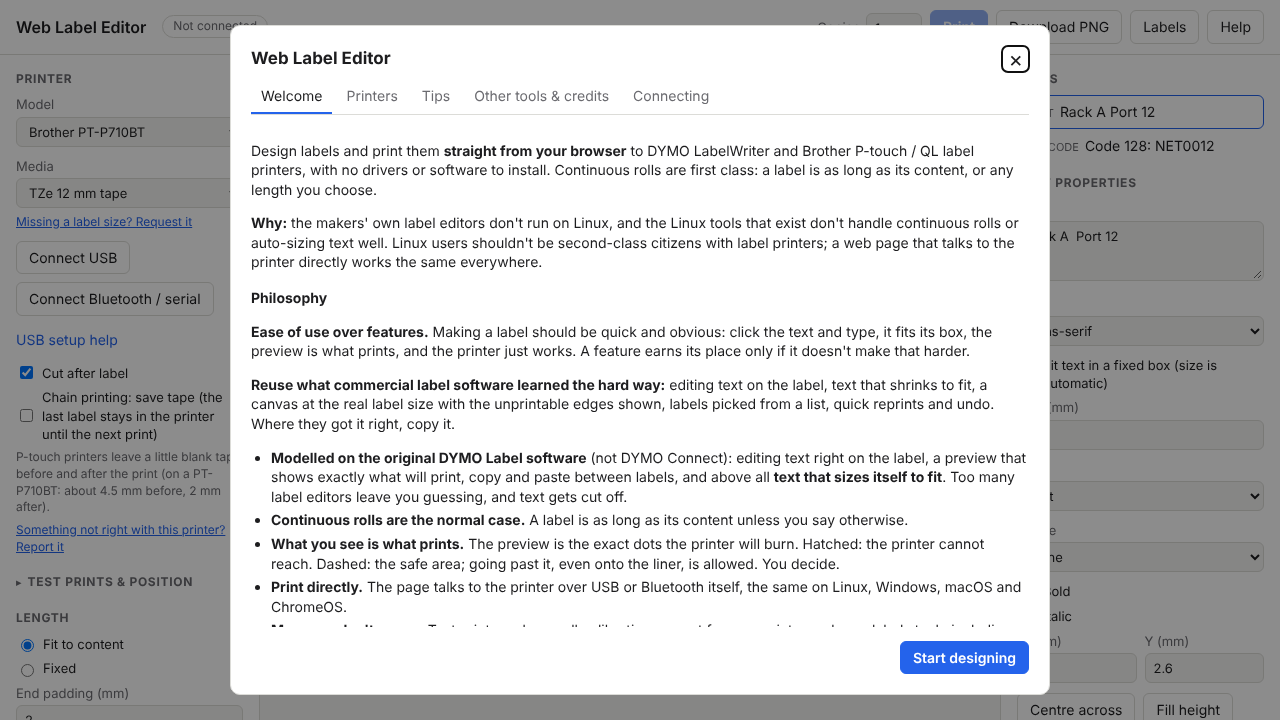
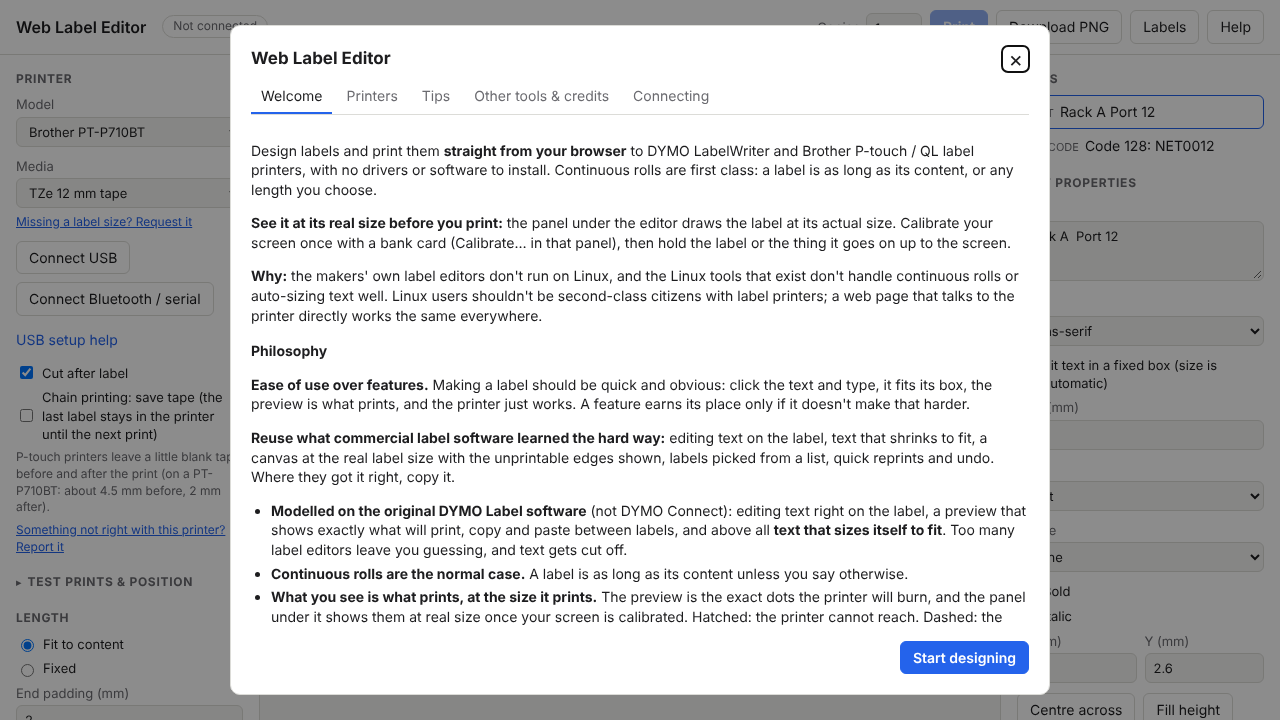
Advertise the actual-size view; fix the screenshot script's race
- README opening, Who it's for, the philosophy and the welcome page now
  call out seeing the label at its real size (calibrated with a bank
  card), which, as far as we know, the other editors listed don't do.
- scripts/screenshots.mjs sets browser storage from a plain page on the
  same origin before opening the app: the app saves its own design just
  after it starts and was overwriting the example designs, so the
  screenshots showed the default label. Screenshots regenerated; the tape
  example is shorter so the roll stub fits.

Claude-Session: https://claude.ai/code/session_01YQFkThD3TEfZZoGyfdA6sY

Changed region(s): [[0.1875, 0.3056, 0.8125, 0.8861]]

diff --git a/src/about.js b/src/about.js
@@ -29,6 +29,9 @@ function welcome(go) {
     p('Design labels and print them ', b('straight from your browser'), ' to DYMO LabelWriter and Brother P-touch / QL '
       + 'label printers, with no drivers or software to install. Continuous rolls are first class: a label is as long as '
       + 'its content, or any length you choose.'),
+    p(b('See it at its real size before you print:'), ' the panel under the editor draws the label at its actual size. '
+      + 'Calibrate your screen once with a bank card (Calibrate… in that panel), then hold the label or the thing it goes '
+      + 'on up to the screen.'),
     p(b('Why:'), ' the makers\' own label editors don\'t run on Linux, and the Linux tools that exist don\'t handle '
       + 'continuous rolls or auto-sizing text well. Linux users shouldn\'t be second-class citizens with label printers; a '
       + 'web page that talks to the printer directly works the same everywhere.'),
@@ -44,8 +47,9 @@ function welcome(go) {
         + 'preview that shows exactly what will print, copy and paste between labels, and above all ',
       b('text that sizes itself to fit'), '. Too many label editors leave you guessing, and text gets cut off.'),
       li(b('Continuous rolls are the normal case.'), ' A label is as long as its content unless you say otherwise.'),
-      li(b('What you see is what prints.'), ' The preview is the exact dots the printer will burn. Hatched: the printer '
-        + 'cannot reach. Dashed: the safe area; going past it, even onto the liner, is allowed. You decide.'),
+      li(b('What you see is what prints, at the size it prints.'), ' The preview is the exact dots the printer will burn, '
+        + 'and the panel under it shows them at real size once your screen is calibrated. Hatched: the printer cannot '
+        + 'reach. Dashed: the safe area; going past it, even onto the liner, is allowed. You decide.'),
       li(b('Print directly.'), ' The page talks to the printer over USB or Bluetooth itself, the same on Linux, Windows, '
         + 'macOS and ChromeOS.'),
       li(b('Measure, don\'t guess.'), ' Test prints and per-roll calibration correct for your printer and your label '

diff --git a/src/others.js b/src/others.js
@@ -15,6 +15,7 @@ export const AIMS = [
   'You print on **continuous rolls or tape**, where the label is as long as its content.',
   'You want to **edit text right on the label** (click it and type) and have it **fit**: sized automatically to its box, never cut off, as in the original DYMO Label software.',
   'Position matters: the preview shows the **true printable area**, and test prints and **per-roll calibration** handle third-party label stock.',
+  'You want to **see the label at its real size** on screen before printing: calibrate once with a bank card, then hold the label or the thing it goes on up to the screen.',
 ];
 
 export const LOOK_ELSEWHERE = [
@@ -41,7 +42,8 @@ export function aimsMarkdown() {
 
 export const OTHER_TOOLS_INTRO = 'Low-level libraries for these printers are plentiful; label editors are rarer, '
   + 'mostly cover one brand, and often print through CUPS or a small server. This one aims at DYMO LabelWriter and '
-  + 'Brother printers together, continuous rolls, text edited in place that fits its box, and a true preview of the printable area; if one of '
+  + 'Brother printers together, continuous rolls, text edited in place that fits its box, and a true preview of the printable area, '
+  + 'also at real size; if one of '
   + 'these fits you better, use it. Developers: the libraries are where most of the protocol knowledge lives.';
 
 export const OTHER_TOOLS = [

diff --git a/README.md b/README.md
@@ -7,10 +7,16 @@ and sends them over **WebUSB** or **Web Serial** (Bluetooth). **Continuous
 rolls** are first class: a label is as long as its content, or any length you
 choose.
 
+**See it at its real size before you print.** Under the editor, the label
+is drawn at its actual size on your screen: calibrate once by holding a bank
+card against it, then hold the label, the cable or the jar lid up to the
+screen to check it fits. As far as we know, none of the other label editors
+listed under [Other tools](#other-tools) do this.
+
 **Open it: https://mofosyne.github.io/web-label-editor/** (Chrome, Edge or
 another Chromium browser on desktop to print; any browser to design)
 
-![Editing an address label for a DYMO LabelWriter, with fitted text and a QR code](docs/screenshots/editor-dymo.png)
+![Editing an address label for a DYMO LabelWriter, with fitted text and a QR code, and the same label at its real size underneath](docs/screenshots/editor-dymo.png)
 
 ## Who it's for
 
@@ -21,6 +27,7 @@ This editor is for you if:
 - You print on **continuous rolls or tape**, where the label is as long as its content.
 - You want to **edit text right on the label** (click it and type) and have it **fit**: sized automatically to its box, never cut off, as in the original DYMO Label software.
 - Position matters: the preview shows the **true printable area**, and test prints and **per-roll calibration** handle third-party label stock.
+- You want to **see the label at its real size** on screen before printing: calibrate once with a bank card, then hold the label or the thing it goes on up to the screen.
 
 Another tool may suit you better if:
 
@@ -78,8 +85,9 @@ right, copy it; don't make users discover the same problems again.
 - **Continuous rolls are the normal case.** A label is as long as its
   content unless you say otherwise; fixed sizes and die-cut labels are the
   special case, not the other way round.
-- **What you see is what prints.** The preview is the exact dots the printer
-  will burn, from the same code that prints. It shows where the printer
+- **What you see is what prints, at the size it prints.** The preview is the
+  exact dots the printer will burn, from the same code that prints, and a
+  calibrated panel shows them at their real size. It shows where the printer
   cannot reach (hatched) and the maker's safe area (dashed); going past the
   safe area, even onto the liner, is allowed on purpose. The editor tells
   you what will happen and leaves the call to you.
@@ -576,7 +584,7 @@ deploys `main` to GitHub Pages.
 ## Other tools
 
 <!-- others:start: generated by `npm run docs` from src/others.js; do not edit by hand -->
-Low-level libraries for these printers are plentiful; label editors are rarer, mostly cover one brand, and often print through CUPS or a small server. This one aims at DYMO LabelWriter and Brother printers together, continuous rolls, text edited in place that fits its box, and a true preview of the printable area; if one of these fits you better, use it. Developers: the libraries are where most of the protocol knowledge lives.
+Low-level libraries for these printers are plentiful; label editors are rarer, mostly cover one brand, and often print through CUPS or a small server. This one aims at DYMO LabelWriter and Brother printers together, continuous rolls, text edited in place that fits its box, and a true preview of the printable area, also at real size; if one of these fits you better, use it. Developers: the libraries are where most of the protocol knowledge lives.
 
 **Label editors in the browser, printing directly**
 
